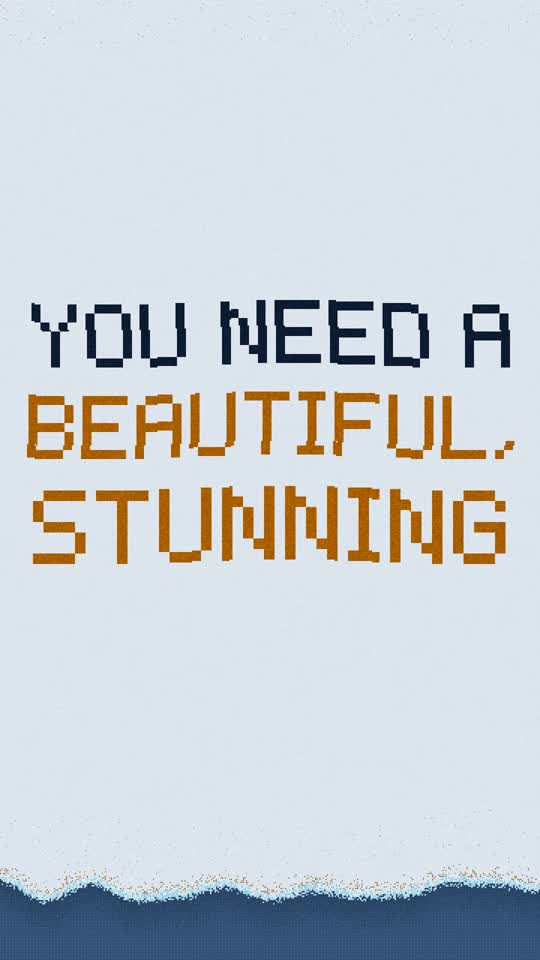
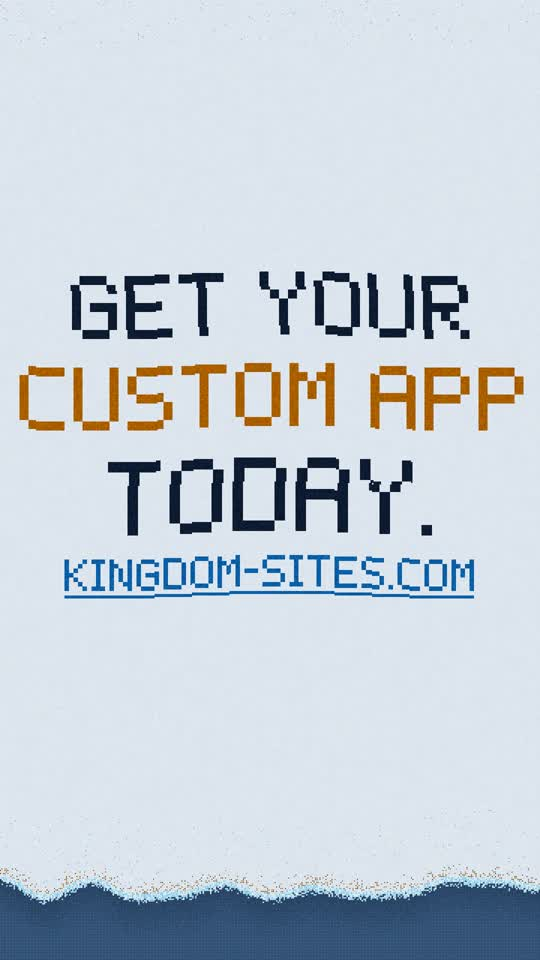
Reach out v7: the address on the end card, a pointer clicks it, and it all explodes (T-548)
Thomas's notes on v6, same 21.17 s: message part two melts into an end card
GET YOUR / CUSTOM APP / TODAY. / KINGDOM-SITES.COM (underlined, solid); the
music stops dead at 19.5 s while a pointer glides in; at 20.0 s it clicks
the address with a firm click on the final hit and everything explodes. The
middle burst is gone. Flash check PASS. v6 kept.

Claude-Session: https://claude.ai/code/session_01XyyhViSzWHw9kb3X7Ra6gn

Changed region(s): [[0.0296, 0.2812, 0.9778, 0.625]]

diff --git a/film/reach-out/video/src/scene.ts b/film/reach-out/video/src/scene.ts
@@ -45,9 +45,10 @@ export const MSG_IN = 123; // the message begins to gather out of the devices
 export const MSG_LAND = 132; // 11.0 s: YOU NEED A BEAUTIFUL, STUNNING
 export const MSG_SWAP = 156; // 13.0 s: part one melts into part two
 export const MSG2_LAND = 162; // 13.5 s: CUSTOM APP FOR YOUR BUSINESS.
-export const EXPLODE = 186; // 15.5 s: the burst
-export const LAND = 198; // 16.5 s: the end words land
-export const FADE = 248; // the end words begin to dim
+export const MSG_SWAP2 = 186; // 15.5 s: part two melts into the end card
+export const END_LAND = 192; // 16.0 s: GET YOUR / CUSTOM APP / TODAY. / KINGDOM-SITES.COM
+export const CLICK = 240; // 20.0 s: the pointer clicks the address, on the music's final hit
+export const EXPLODE = 241; // everything explodes from the click
 export const STEPS = 254;
 export const DURATION_FRAMES = Math.ceil((STEPS * T.fps) / SPS);
 
@@ -134,7 +135,7 @@ export function kick(step: number) {
   if (step < 0) return 0;
   const beat = step - (step % 6);
   const accent = beat % 24 === 0 ? 1 : beat % 24 === 12 ? 0.75 : 0.55;
-  const quiet = (beat >= TAP - 6 && beat < TAP + 6) || (beat >= EXPLODE - 6 && beat < EXPLODE) ? 0 : beat >= EXPLODE && beat < LAND ? 0 : 1; // the music's break, and the hit's ring
+  const quiet = (beat >= TAP - 6 && beat < TAP + 6) || beat >= CLICK - 6 ? 0 : 1; // the music's break, and the hit's ring
   return accent * DECAY[step % 6] * quiet;
 }
 
@@ -838,13 +839,14 @@ function drawHand(b: Uint32Array, step: number, under: Uint32Array) {
 // ───────────────────────────── the words ─────────────────────────────
 
 type Line = [string, number, readonly string[]];
+// The end card. The web address sits under the offer, underlined like a link, for the pointer.
 const LINES: Line[] = [
-  ["KINGDOM SITES", 4, T_WHITE],
   ["GET YOUR", 6, T_WHITE],
   ["CUSTOM APP", 6, T_LIME],
   ["TODAY.", 7, T_WHITE],
+  ["KINGDOM-SITES.COM", 3, T_TEAL],
 ];
-type WTile = { c: number; r: number; tone: number; j: number };
+type WTile = { c: number; r: number; tone: number; j: number; line?: number };
 function layout(lines: Line[], extraFirstGap: number): WTile[] {
   const heights = lines.map(([, sc]) => 7 * sc);
   const gaps = lines.slice(1).map(([, sc], j) => Math.round(1.6 * (sc + lines[j][1])) + (j === 0 ? extraFirstGap : 0));
@@ -853,12 +855,25 @@ function layout(lines: Line[], extraFirstGap: number): WTile[] {
   lines.forEach(([str, scale, tones], j) => {
     const w = wordUnits(str) * scale;
     if (w > COLS - 4) throw new Error(`"${str}" is ${w} tiles wide; the wall is ${COLS}`);
-    for (const { c, r } of wordCells(str, Math.round(CX - w / 2), top, scale)) out.push({ c, r, tone: px(pick(tones, hash(c, r, 300 + j))), j: hash(c, r, 307) });
+    for (const { c, r } of wordCells(str, Math.round(CX - w / 2), top, scale)) out.push({ c, r, tone: px(pick(tones, hash(c, r, 300 + j))), j: hash(c, r, 307), line: j });
     top += heights[j] + (gaps[j] ?? 0);
   });
   return out;
 }
-const WORDS: WTile[] = layout(LINES, 10);
+const WORDS: WTile[] = (() => {
+  const out = layout(LINES, 0);
+  const url = out.filter((t) => t.line === 3);
+  const c0 = Math.min(...url.map((t) => t.c));
+  const c1 = Math.max(...url.map((t) => t.c));
+  const r1 = Math.max(...url.map((t) => t.r));
+  for (let c = c0; c <= c1; c++) for (const r of [r1 + 4, r1 + 5]) out.push({ c, r, tone: px(pick(T_TEAL, hash(c, r, 303))), j: hash(c, r, 307), line: 3 });
+  return out;
+})();
+const URL_TILES = WORDS.filter((t) => t.line === 3);
+const URL_C0 = Math.min(...URL_TILES.map((t) => t.c));
+const URL_C1 = Math.max(...URL_TILES.map((t) => t.c));
+const URL_R0 = Math.min(...URL_TILES.map((t) => t.r));
+const URL_R1 = Math.max(...URL_TILES.map((t) => t.r));
 
 // The message, gathered out of the turning devices, which dim behind it.
 // The message, in two parts, each gathered out of the scene and melting into the next.
@@ -911,18 +926,52 @@ function drawMessage(b: Uint32Array, step: number, under: Uint32Array) {
         const band = sweep < 6 && Math.abs(t.c * 2 + t.r - (200 + sweep * 150)) < 7;
         col = t.tone;
         size = step === land || band ? 3 : 2;
+        if (t.line === 3 && tiles === WORDS) size = step >= CLICK ? 1 : 3; // the address, solid so it reads at its size
       }
       put(b, c, r, col, size, wordGap(col));
     }
   };
   part(MSG1, MSG_IN, MSG_LAND, MSG_SWAP);
-  part(MSG2, MSG_SWAP, MSG2_LAND, null);
+  part(MSG2, MSG_SWAP, MSG2_LAND, MSG_SWAP2);
+  part(WORDS, MSG_SWAP2, END_LAND, null);
+  drawPointer(b, step, under);
+}
+
+// The pointer glides in from beyond the right edge and stops with its tip just under the address;
+// on the click the pointer and the address shrink for a step, and everything explodes.
+const ARROW = ["X........", "XX.......", "XXX......", "XXXX.....", "XXXXX....", "XXXXXX...", "XXXXXXX..", "XXXXXXXX.", "XXXXXXXXX", "XXXXX....", "XX.XX....", "X...XX...", "....XX..."];
+const ARROW_HOPS = [[200, 150], [128, 96], [74, 56], [38, 29], [16, 12], [5, 4], [0, 0]];
+const ARROW_C0 = Math.round(URL_C1 - (URL_C1 - URL_C0) * 0.28);
+const ARROW_R0 = URL_R1 + 3;
+const ARROW_TONE = px("#0E1E38");
+const ARROW_EDGE = px("#FFFFFF");
+function drawPointer(b: Uint32Array, step: number, under: Uint32Array) {
+  const hop = step - (CLICK - ARROW_HOPS.length);
+  if (hop < 0 || step >= EXPLODE) return;
+  const [dc, dr] = ARROW_HOPS[Math.min(hop, ARROW_HOPS.length - 1)];
+  const pressed = step >= CLICK;
+  const bright = Math.min(1, (hop + 1) / 3);
+  ARROW.forEach((row, j) =>
+    row.split("").forEach((bit, k) => {
+      if (bit !== "X") return;
+      // A white edge where the arrow meets empty space, so it reads on any colour.
+      const edge = k === 0 || j === 0 || row[k + 1] !== "X" || ARROW[j + 1]?.[k] !== "X";
+      for (let dy = 0; dy < 4; dy++)
+        for (let dx = 0; dx < 4; dx++) {
+          const c = ARROW_C0 + dc + k * 4 + dx;
+          const r = ARROW_R0 + dr + j * 4 + dy;
+          if (c < 0 || c >= COLS || r < 0 || r >= ROWS) continue;
+          const tone = edge && (dx === 3 || dy === 3) ? ARROW_EDGE : ARROW_TONE;
+          const col = bright < 1 ? mixPx(under[r * COLS + c], tone, bright) : tone;
+          put(b, c, r, col, pressed ? 1 : 2, wordGap(col));
+        }
+    }),
+  );
 }
 
 // ───────────────────────────── the burst ─────────────────────────────
 
 let frozen: Uint32Array | null = null; // the picture on the step before the burst, one colour per tile
-let sources: Int32Array | null = null; // for each word tile, the bursting tile it is made from
 function freeze() {
   if (frozen) return;
   const b = new Uint32Array(W * H);
@@ -930,13 +979,10 @@ function freeze() {
   paintScene(b, EXPLODE - 1, under);
   frozen = new Uint32Array(N);
   for (let i = 0; i < N; i++) frozen[i] = b[((i / COLS) | 0) * CELL * W + (i % COLS) * CELL];
-  const lit: number[] = [];
-  for (let i = 0; i < N; i++) if (lum(frozen[i]) > 0.09 && Math.abs((i % COLS) - CX) < 120) lit.push(i);
-  sources = Int32Array.from(WORDS, (t) => lit[Math.floor(hash(t.c, t.r, 311) * lit.length)]);
 }
-const BURST_C = CX;
-const BURST_R = CY - 20;
-const BURST_STEPS = 10;
+const BURST_C = Math.round((URL_C0 + URL_C1) / 2);
+const BURST_R = Math.round((URL_R0 + URL_R1) / 2);
+const BURST_STEPS = 13;
 function burst(i: number, since: number): [number, number, number] | null {
   const c0 = i % COLS;
   const r0 = (i / COLS) | 0;
@@ -944,7 +990,7 @@ function burst(i: number, since: number): [number, number, number] | null {
   const dr = r0 - BURST_R;
   const l = since - (Math.hypot(dc, dr) > 250 ? 1 : 0);
   if (l < 0) return [c0, r0, 2];
-  const life = 4 + Math.floor(hash(c0, r0, 95) * 5);
+  const life = 6 + Math.floor(hash(c0, r0, 95) * 7);
   if (l >= life) return null;
   const angle = Math.atan2(dr, dc || 0.01) + (hash(c0, r0, 96) - 0.5) * 0.6 + 0.25 * (l + 1);
   const gone = (70 * (0.5 + hash(c0, r0, 97)) * (1 - Math.pow(0.72, l + 1))) / 0.28;
@@ -1003,11 +1049,10 @@ export function drawStep(ctx: CanvasRenderingContext2D, step: number) {
     freeze();
     buf.fill(INK_PX);
     underNow.fill(INK_PX);
-    // The tunnel comes back, dim, behind the words.
-    if (step >= EXPLODE + 8) {
+    // After the explosion the tunnel breathes back in, faintly, to the last frame.
+    if (step >= EXPLODE + 6) {
       rings(step);
-      const fadeOut = step >= FADE ? 1 - (step - FADE + 1) / (STEPS - FADE) : 1;
-      paintIllusion(buf, step, 0.55 * clamp((step - EXPLODE - 8) / 14) * fadeOut, false, underNow);
+      paintIllusion(buf, step, 0.45 * clamp((step - EXPLODE - 6) / 8), false, underNow);
     }
     const since = step - EXPLODE;
     if (since <= BURST_STEPS) {
@@ -1017,65 +1062,19 @@ export function drawStep(ctx: CanvasRenderingContext2D, step: number) {
         if (d) put(buf, d[0], d[1], all[i], d[2], INK_PX);
       }
     }
-    drawWords(buf, step);
   }
   ctx.putImageData(img, 0, 0);
-}
-
-function drawWords(b: Uint32Array, step: number) {
-  const src = sources!;
-  const all = frozen!;
-  for (let n = 0; n < WORDS.length; n++) {
-    const t = WORDS[n];
-    if (step < LAND) {
-      // Out with the burst, then curving back in, faster as they come, onto the beat.
-      const s0 = src[n];
-      const sc = s0 % COLS;
-      const sr = (s0 / COLS) | 0;
-      const x = (step - EXPLODE) / (LAND - EXPLODE);
-      // Out with the burst for half a second, then swirling in around the middle: the letters are
-      // a wide, turned spiral at first and tighten into place, faster as they come, onto the beat.
-      const ang = Math.atan2(sr - BURST_R, sc - BURST_C || 0.01) + (t.j - 0.5) * 0.8;
-      const far = 50 + 90 * hash(t.c, t.r, 312);
-      const out = 1 - Math.pow(1 - clamp((step - EXPLODE) / 6), 2);
-      const bc = sc + Math.cos(ang) * far * out;
-      const br = sr + Math.sin(ang) * far * out;
-      const x2 = clamp((step - EXPLODE - 4) / (LAND - EXPLODE - 4));
-      const k = clamp(1 - Math.pow(x2, 1.5) + (t.j - 0.5) * 0.12 * (1 - x2));
-      const dx = t.c - CX;
-      const dy = t.r - CY;
-      const d = Math.hypot(dx, dy);
-      const th = Math.atan2(dy, dx) + k * k * 3.4 * (200 / (d + 100));
-      const sp = d * (1 + 1.3 * k);
-      const w = smooth(x2 / 0.4);
-      let c = mix(bc, CX + sp * Math.cos(th), w);
-      let r = mix(br, CY + sp * Math.sin(th), w);
-      c = Math.min(COLS - 1, Math.max(0, Math.round(c)));
-      r = Math.min(ROWS - 1, Math.max(0, Math.round(r)));
-      put(b, c, r, mixPx(all[s0], t.tone, 0.88 * smooth((x - 0.1) / 0.6)), x < 0.08 ? 3 : 2, x > 0.75 ? wordGap(t.tone) : INK_PX);
-    } else {
-      // Standing: a sway with the beat, a bounce on each beat, and a band of larger tiles.
-      const l = step - LAND;
-      const fade = step >= FADE ? (step - FADE + 1) / (STEPS - FADE) : 0;
-      const c = t.c + Math.round(1.3 * Math.sin(t.r / 33 + (2 * Math.PI * step) / 12));
-      const r = t.r + Math.round(1.7 * Math.sin(t.c / 40 + (2 * Math.PI * step) / 24) - 2.4 * kick(step));
-      const sweep = step % 12;
-      const band = sweep < 6 && Math.abs(t.c * 2 + t.r - (200 + sweep * 150)) < 7;
-      if (fade > 0 && hash(t.c, t.r, 313) < fade * 0.9) continue;
-      put(b, c, r, fade > 0 ? mixPx(t.tone, INK_PX, fade * 0.6) : t.tone, l === 0 || (band && fade === 0) ? 3 : fade > 0.4 ? 1 : 2, fade > 0 ? INK_PX : wordGap(t.tone));
-    }
-  }
 }
 
 // ───────────────────────────── checks ─────────────────────────────
 
 const TEXT = LINES.map((x) => x[0]).join(" ");
-export const HOLD_SECONDS = (FADE - LAND) / SPS;
+export const HOLD_SECONDS = (CLICK - END_LAND) / SPS;
 {
-  const least = 0.45 * TEXT.split(/\s+/).length + 1;
+  const least = 0.3 * TEXT.split(/\s+/).length + 0.5;
   // Each part of the message: 0.3 s a word plus 0.5 s (Thomas asked for the message to be quicker
   // than v5's single 5.5 s hold).
-  for (const [lines, stands] of [[MESSAGE1, (MSG_SWAP - MSG_LAND) / SPS], [MESSAGE2, (EXPLODE - MSG2_LAND) / SPS]] as [Line[], number][]) {
+  for (const [lines, stands] of [[MESSAGE1, (MSG_SWAP - MSG_LAND) / SPS], [MESSAGE2, (MSG_SWAP2 - MSG2_LAND) / SPS]] as [Line[], number][]) {
     const text = lines.map((x) => x[0]).join(" ");
     const leastPart = 0.3 * text.split(/\s+/).length + 0.5;
     if (stands + 0.05 < leastPart) throw new Error(`"${text}" stands for ${stands.toFixed(2)} s, under ${leastPart.toFixed(2)} s`);
@@ -1093,8 +1092,7 @@ export function moments() {
     ["carousel turning", FLOAT],
     ["message part one lands", MSG_LAND],
     ["message part two lands", MSG2_LAND],
-    ["burst", EXPLODE],
-    ["words land", LAND],
-    ["words begin to dim", FADE],
+    ["end card lands", END_LAND],
+    ["pointer clicks the address", CLICK],
   ].map(([what, step]) => ({ what: what as string, step: step as number, seconds: sec(step as number) }));
 }

diff --git a/film/reach-out/SCRIPT.md b/film/reach-out/SCRIPT.md
@@ -178,3 +178,23 @@ second break and the end, which come 1 s sooner. Length 21.17 s (254 steps).
 The message takes 4.5 s from the first part landing to the burst (v5: 5.5 s). Each part is held
 for 0.3 s a word plus 0.5 s (the build checks it). The devices now fade to the ground's own
 colour and stop drawing, so no faint shape is left behind the words.
+
+## Version 7 (Thomas's notes on v6)
+
+v6 is kept in `v6/`. Same length, 21.17 s. Everything before 15.5 s is as v6.
+
+The middle burst is gone: message part two now melts into the end card the way part one melts
+into part two, and the burst moves to the very end, set off by a click on the web address. The
+address replaces the KINGDOM SITES line (the address carries the name), so it is one card, not
+two.
+
+| Seconds | What happens | Music |
+|---|---|---|
+| 13.5 to 15.5 | CUSTOM APP / FOR YOUR / BUSINESS. stands (2.0 s) | |
+| 15.5 to 16.0 | it melts as the end card gathers | |
+| 16.0 to 20.0 | GET YOUR / CUSTOM APP / TODAY. / KINGDOM-SITES.COM (underlined, solid tiles) | the track from 19 s, its run into the loudest bar |
+| 19.42 to 19.92 | a pointer glides in from beyond the right edge, tip under the address | 19.5 s: dead stop |
+| 20.0 | the pointer clicks; the pointer and address shrink | the firm click and the final hit together |
+| 20.08 to 21.17 | everything explodes outward from the address; the tunnel breathes back in faintly | the hit rings out |
+
+The end card stands 4.0 s (7 words at 0.3 s a word plus 0.5 s is 2.6 s).
